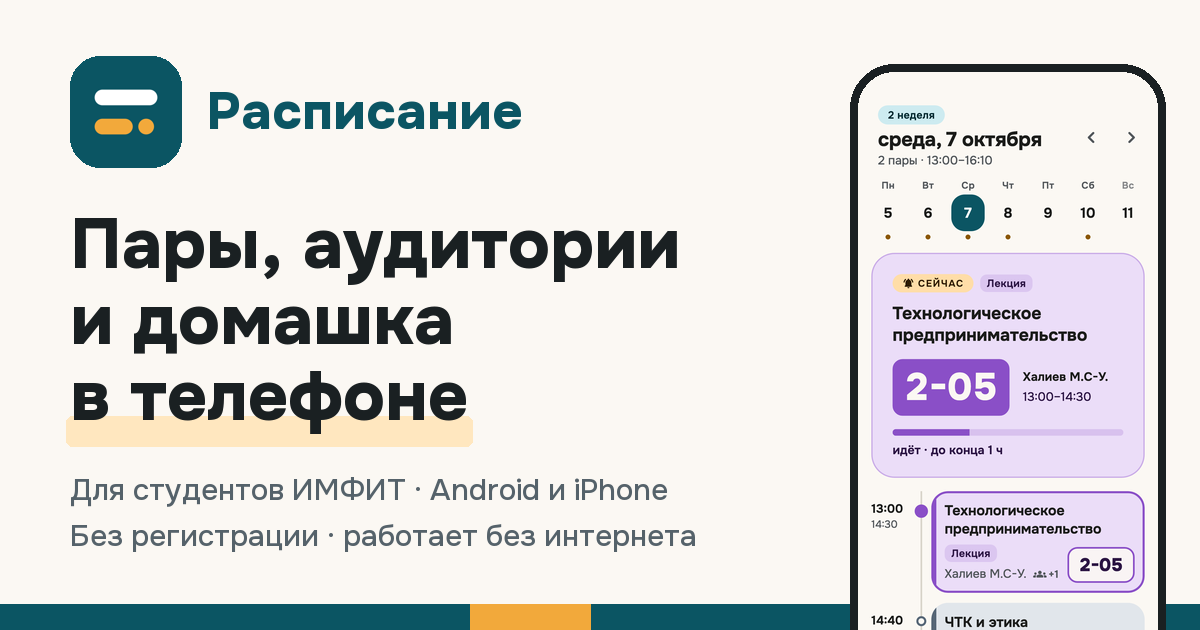
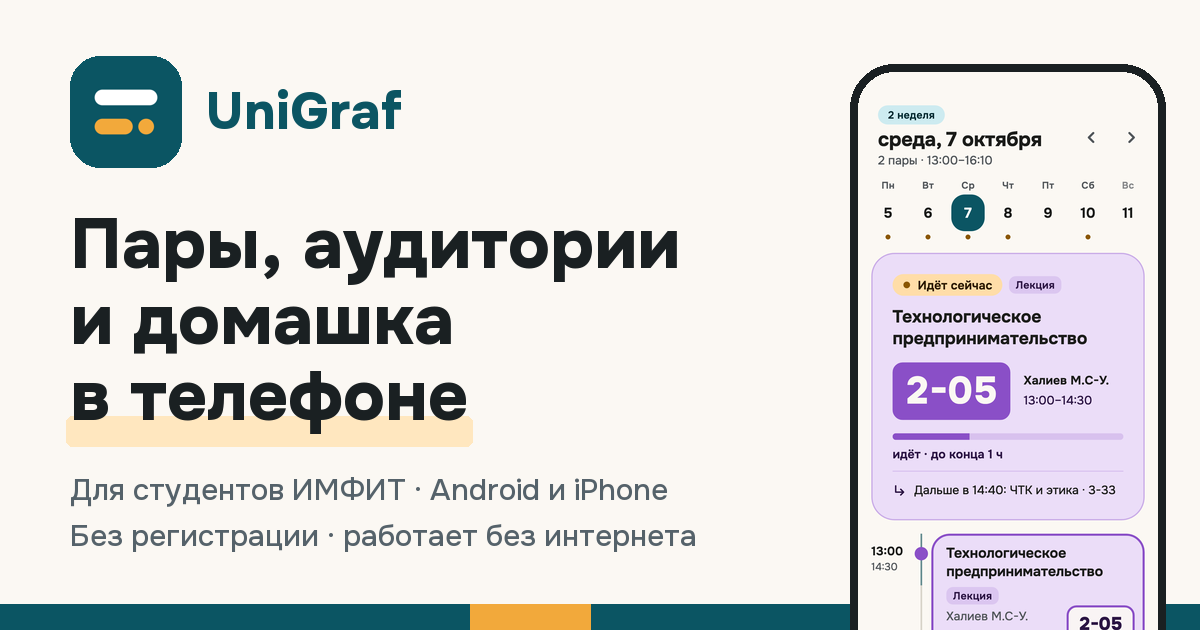
Новое название приложения: UniGraf (интерфейс, сайт, документы; технические имена не менялись)

Changed region(s): [[0.7092, 0.4222, 0.9558, 1.0], [0.1542, 0.1508, 0.4317, 0.2111]]

diff --git a/data/web/index.html b/data/web/index.html
@@ -8,10 +8,10 @@
 <meta name="theme-color" content="#0E1416" media="(prefers-color-scheme: dark)">
 <!-- Корень сайта: на основной странице пусто, на тестовой (/site-next/) публикация ставит «../», чтобы приложение, APK и расписание брались с основного сайта -->
 <meta name="site-root" content="">
-<title>Расписание — приложение для студентов ИМФИТ</title>
-<meta name="description" content="Пары, аудитории и домашка в одном месте. Студенческое приложение: без регистрации, работает без интернета, староста группы вносит замены.">
+<title>UniGraf — приложение для студентов ИМФИТ</title>
+<meta name="description" content="UniGraf: пары, аудитории и домашка в одном месте. Студенческое приложение: без регистрации, работает без интернета, староста группы вносит замены.">
 <meta property="og:type" content="website">
-<meta property="og:title" content="Расписание — приложение для студентов ИМФИТ">
+<meta property="og:title" content="UniGraf — приложение для студентов ИМФИТ">
 <meta property="og:description" content="Пары, аудитории и домашка в одном месте. Без регистрации, работает без интернета.">
 <meta property="og:image" content="https://magan-z.github.io/raspisanie/img/og.png">
 <meta property="og:locale" content="ru_RU">
@@ -386,9 +386,9 @@
 
 <header class="hdr" id="hdr">
   <div class="wrap top">
-    <a class="brand" href="./" aria-label="Расписание, на главную">
+    <a class="brand" href="./" aria-label="UniGraf, на главную">
       <img src="img/Icon-192.png" alt="" width="38" height="38">
-      <span>Расписание</span>
+      <span>UniGraf</span>
     </a>
     <nav class="nav" aria-label="Разделы страницы">
       <a href="#screens">Экраны</a>
@@ -799,7 +799,7 @@ $("btn-copy").addEventListener("click", async () => {
 if (navigator.share) {
   $("btn-share").hidden = false;
   $("btn-share").addEventListener("click", () => {
-    navigator.share({ title: "Расписание для студентов ИМФИТ", text: "Пары, аудитории и домашка в одном приложении:", url: PAGE_URL }).catch(() => {});
+    navigator.share({ title: "UniGraf — приложение для студентов ИМФИТ", text: "Пары, аудитории и домашка в одном приложении:", url: PAGE_URL }).catch(() => {});
   });
 }
 

diff --git a/app/lib/features/settings/settings_screen.dart b/app/lib/features/settings/settings_screen.dart
@@ -269,7 +269,7 @@ class SettingsScreen extends ConsumerWidget {
                         ? 'Уведомления разрешены'
                         : opened
                             ? 'Включите «Показывать уведомления» на открывшейся странице'
-                            : 'Уведомления запрещены. Включите их в настройках телефона: Приложения → Расписание → Уведомления'),
+                            : 'Уведомления запрещены. Включите их в настройках телефона: Приложения → UniGraf → Уведомления'),
                   ));
                 },
               );
@@ -316,7 +316,7 @@ class SettingsScreen extends ConsumerWidget {
               const SizedBox(width: Gap.lg),
               Expanded(
                 child: Column(crossAxisAlignment: CrossAxisAlignment.start, children: [
-                  Text('Расписание', style: theme.textTheme.titleMedium),
+                  Text('UniGraf', style: theme.textTheme.titleMedium),
                   const SizedBox(height: Gap.xs),
                   Text(
                     'Версия расписания: ${index?.version.substring(0, 10) ?? '—'}\nБез аккаунтов, рекламы и слежки: домашка и правки хранятся только на вашем телефоне.',

diff --git a/app/web/index.html b/app/web/index.html
@@ -7,7 +7,7 @@
   <meta charset="UTF-8">
   <meta content="IE=Edge" http-equiv="X-UA-Compatible">
   <meta name="viewport" content="width=device-width, initial-scale=1.0, maximum-scale=5.0">
-  <meta name="description" content="Расписание института: пары, аудитории, домашка, поиск">
+  <meta name="description" content="UniGraf: расписание института, аудитории, домашка, поиск">
   <meta name="theme-color" content="#FBF8F3" media="(prefers-color-scheme: light)">
   <meta name="theme-color" content="#0E1416" media="(prefers-color-scheme: dark)">
 
@@ -15,12 +15,12 @@
   <meta name="mobile-web-app-capable" content="yes">
   <meta name="apple-mobile-web-app-capable" content="yes">
   <meta name="apple-mobile-web-app-status-bar-style" content="default">
-  <meta name="apple-mobile-web-app-title" content="Расписание">
+  <meta name="apple-mobile-web-app-title" content="UniGraf">
   <link rel="apple-touch-icon" href="icons/apple-touch-icon.png">
 
   <link rel="icon" type="image/png" href="favicon.png"/>
   <link rel="manifest" href="manifest.json">
-  <title>Расписание</title>
+  <title>UniGraf</title>
 
   <style>
     /* Фон страницы совпадает с фоном приложения — при загрузке и в «полосах» под строкой состояния нет белых вспышек */

diff --git a/data/web/poster.html b/data/web/poster.html
@@ -4,7 +4,7 @@
 <meta charset="utf-8">
 <meta name="viewport" content="width=device-width, initial-scale=1">
 <meta name="robots" content="noindex">
-<title>Листовка — Расписание для студентов ИМФИТ</title>
+<title>Листовка — UniGraf для студентов ИМФИТ</title>
 <style>
   @font-face { font-family: "Onest"; src: url("fonts/onest.woff2") format("woff2"); font-weight: 100 900; font-display: swap; }
   :root { --petrol: #0B5563; --ink: #1A2022; --muted: #55626A; --amber: #F2A93B; --soft: #CDEBF0; }
@@ -42,7 +42,7 @@
   <button type="button" onclick="window.print()">Распечатать</button>
 </div>
 <div class="sheet">
-  <div class="logo"><img src="img/Icon-192.png" alt="" width="56" height="56">Расписание</div>
+  <div class="logo"><img src="img/Icon-192.png" alt="" width="56" height="56">UniGraf</div>
   <h1>Пары, аудитории и домашка <span>в телефоне</span></h1>
   <p class="lead">Приложение для студентов ИМФИТ. Android и iPhone. Бесплатно, без регистрации, работает без интернета.</p>
   <div class="qr"><img src="qr.svg" alt="QR-код со ссылкой на страницу приложения"></div>

diff --git a/app/lib/features/onboarding/onboarding_screen.dart b/app/lib/features/onboarding/onboarding_screen.dart
@@ -83,7 +83,7 @@ class _OnboardingScreenState extends ConsumerState<OnboardingScreen> {
                 const Illustration(IllustrationKind.welcome, width: 128),
               ]),
               const SizedBox(height: Gap.lg),
-              Text('Расписание', style: theme.textTheme.displaySmall?.copyWith(color: theme.colorScheme.onPrimaryContainer)),
+              Text('UniGraf', style: theme.textTheme.displaySmall?.copyWith(color: theme.colorScheme.onPrimaryContainer)),
               const SizedBox(height: Gap.sm),
               Text(
                 'Расписание всего института в телефоне: пары, аудитории, домашка и напоминания. Без регистрации.',

diff --git a/app/android/app/src/main/kotlin/ru/raspisanie/raspisanie/widget/WidgetMenuActivity.kt b/app/android/app/src/main/kotlin/ru/raspisanie/raspisanie/widget/WidgetMenuActivity.kt
@@ -83,7 +83,7 @@ class WidgetMenuActivity : Activity() {
         root.addView(card, LinearLayout.LayoutParams(dp(300).coerceAtMost(resources.displayMetrics.widthPixels - dp(48)), ViewGroup.LayoutParams.WRAP_CONTENT))
 
         card.addView(TextView(this).apply {
-            text = "Расписание"
+            text = "UniGraf"
             setTextColor(c.textSecondary)
             setTextSize(TypedValue.COMPLEX_UNIT_SP, 13f)
             letterSpacing = 0.05f

diff --git a/app/lib/main.dart b/app/lib/main.dart
@@ -59,7 +59,7 @@ class RaspisanieApp extends ConsumerWidget {
               ),
             );
         return MaterialApp(
-          title: 'Расписание',
+          title: 'UniGraf',
           debugShowCheckedModeBanner: false,
           scrollBehavior: _iosScroll ? const _IosScrollBehavior() : null,
           themeMode: settings.themeMode,

diff --git a/data/tools/make_landing_assets.py b/data/tools/make_landing_assets.py
@@ -53,7 +53,7 @@ def preview_image() -> None:
     mask = Image.new("L", (112, 112), 0)
     ImageDraw.Draw(mask).rounded_rectangle((0, 0, 111, 111), radius=30, fill=255)
     im.paste(icon, (70, 56), mask)
-    d.text((206, 78), "Расписание", font=font(52, 800), fill=PETROL)
+    d.text((206, 78), "UniGraf", font=font(52, 800), fill=PETROL)
     big = font(70, 800)
     d.text((70, 200), "Пары, аудитории", font=big, fill=INK)
     d.text((70, 276), "и домашка", font=big, fill=INK)

diff --git a/ХОД_РАБОТ.md b/ХОД_РАБОТ.md
@@ -326,3 +326,8 @@ Kotlin-тесты: `cd app/android && ./gradlew :app:testDebugUnitTest` (14 те
 - **Тесты:** приложение 301 (+26: домен, протокол, кэш, 7 экранных сценариев), парсер 77 (+3). Снимки экранов режима: `flutter test tool/screenshots_test.dart --plain-name teacher` (`/tmp/claude-shots/teacher/`).
 - **Не сделано (можно позже):** личные правки пар у преподавателя, объявления без ДЗ, хеширование токенов. Нужно от владельца: полные ФИО преподавателей, контакт для заявок на коды, слово «выпускай» (и «перенеси в основное»).
 - **Итог:** владелец проверил на тестовом адресе (временный код выдан и отозван, тестовое ДЗ удалено), ветка `design-test` слита в `main`, на `/app/` и сайте режим уже есть; в APK попадёт со следующим выпуском (ждёт слова «выпускай»).
+
+## Новое название: UniGraf (2026-10-15, в `main`, в APK попадёт со следующим выпуском)
+
+Владелец выбрал название «UniGraf» вместо «Расписание». Заменено везде, где слово стоит как имя приложения: подпись под значком (`AndroidManifest.xml`), меню виджета, заголовок и приветствие в приложении, «О приложении» в настройках, подсказка про разрешение уведомлений, веб-версия (`app/web/index.html`, `manifest.json`: название на экране «Домой» у iPhone), тестовая сборка (`scripts/build_web.sh`), лендинг и листовка (`data/web`), картинка превью ссылки `og.png` (перерисована `data/tools/make_landing_assets.py`), документы и LICENSE. Слово «расписание» в обычном смысле («Расписание обновилось», «Расписание вашей группы») осталось.
+**Не менялось намеренно (технические имена, их смена сломала бы установленные копии или ссылки):** пакет `ru.raspisanie.raspisanie` (иначе Android посчитает приложение новым и обновление не встанет), ссылки `raspisanie://`, имя базы `raspisanie`, адрес сайта и репозитория `/raspisanie/`, файл `raspisanie.apk`, каналы `raspisanie/…`. Если позже захочется переименовать репозиторий и файл APK, GitHub оставит перенаправление, но QR-код и ссылки придётся обновить.

diff --git a/PRODUCT.md b/PRODUCT.md
@@ -34,7 +34,7 @@ Flutter 3.47 / Dart, Riverpod, drift; в браузере рисуется на 
 
 ## Brand Commitments
 
-Название «Расписание». Идея «номер аудитории — главное на экране». Нынешнее оформление (бумага + петроль + янтарь, шрифт Onest, значок «два блока пары и точка-звонок») владельцу нравится и остаётся основой: решение владельца (2026-10-12) — не заменять дизайн, а показать более свежий, отполированный вариант того же стиля с анимациями и новыми идеями, «заметно другой, но привычный». Структура экранов и функции не меняются. Тестовая версия выходит на отдельном адресе, обычная не трогается.
+Название «UniGraf» (решение владельца, 2026-10-15; раньше приложение называлось «Расписание»). Идея «номер аудитории — главное на экране». Нынешнее оформление (бумага + петроль + янтарь, шрифт Onest, значок «два блока пары и точка-звонок») владельцу нравится и остаётся основой: решение владельца (2026-10-12) — не заменять дизайн, а показать более свежий, отполированный вариант того же стиля с анимациями и новыми идеями, «заметно другой, но привычный». Структура экранов и функции не меняются. Тестовая версия выходит на отдельном адресе, обычная не трогается.
 
 ## Evidence on Hand
 

diff --git a/АРХИТЕКТУРА.md b/АРХИТЕКТУРА.md
@@ -1,4 +1,4 @@
-# Приложение «Расписание» — архитектура и техническое задание
+# Приложение «UniGraf» (прежнее название «Расписание») — архитектура и техническое задание
 
 > Документ для исполнителя (Sonnet 5.5). Здесь описано **что** строить и **как проверить**, что построено правильно.
 > Все факты о файле расписания проверены на реальном `мое расписание.xlsx` (осенний семестр 2026–2027).

diff --git a/ДИЗАЙН.md b/ДИЗАЙН.md
@@ -1,4 +1,4 @@
-# Дизайн приложения «Расписание» и сайта
+# Дизайн приложения «UniGraf» и сайта
 
 Документ описывает, как устроено оформление и почему. Обновлён 2026-10-14 (после «нового вида», нового дизайна виджетов и новой главной страницы).
 Код дизайн-системы приложения — `app/lib/theme/`, общие элементы — `app/lib/features/common/`, главная страница сайта — `data/web/index.html`.
